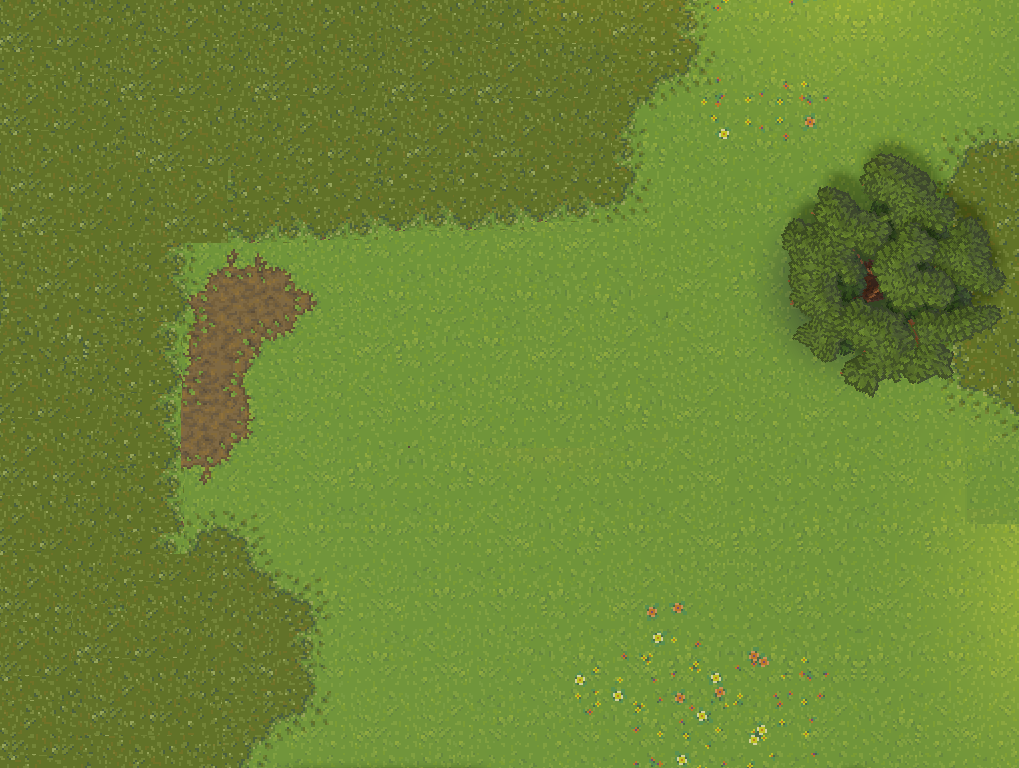
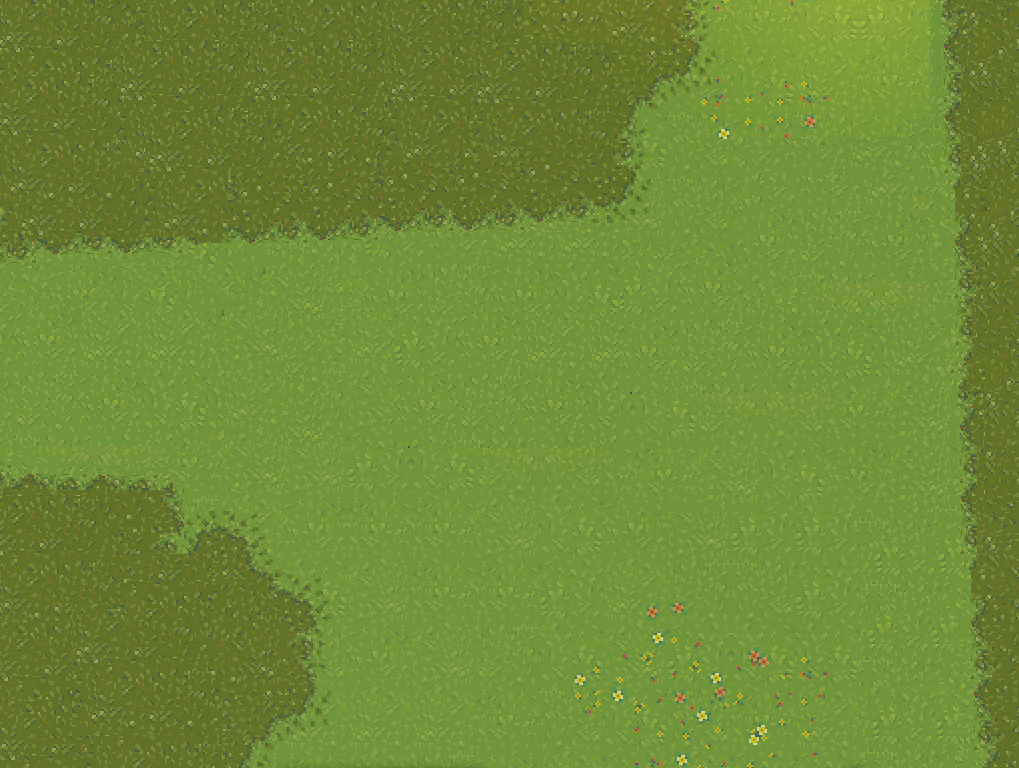
Add files via upload

Changed region(s): [[0.7301, 0.0, 1.0, 1.0], [0.0, 0.3125, 0.3346, 0.6562], [0.6693, 0.5312, 0.6997, 0.5625]]

diff --git a/main_new.py b/main_new.py
@@ -110,6 +110,7 @@ background1 = pygame.transform.scale(pygame.image.load("ground.png"),(window_wid
 background2 = pygame.transform.scale(pygame.image.load("ground2.png"),(window_width,window_height))
 background3 = pygame.transform.scale(pygame.image.load("ground3.png"),(window_width,window_height))
 background4 = pygame.transform.scale(pygame.image.load("ground_magaz.png"),(window_width,window_height))
+background5 = pygame.transform.scale(pygame.image.load("ground4.png"),(window_width,window_height))
 house = pygame.transform.scale(pygame.image.load("house.jpg"),(600,400))
 house_in = pygame.transform.scale(pygame.image.load("house_in.jpg"),(window_width,window_height))
 hearts = pygame.transform.scale(pygame.image.load("heart.png"),(25,25))
@@ -160,6 +161,7 @@ once_lock = 1
 hp_resiste = time.monotonic()
 time_for_dmg = time.monotonic()
 pre_attack_time = time.monotonic()
+time_fix = time.monotonic()
 hp_resister = 0
 coins = 0
 death = 0
@@ -191,7 +193,7 @@ while game:
                 if Locationy == 1:
                     Locationy = "magaz"
 
-            if key[pygame.K_e] and main_character.rect.x > 100 and main_character.rect.x < 150 and main_character.rect.y > 340 and main_character.rect.y < 380:
+            if key[pygame.K_e] and main_character.rect.x > 100 and main_character.rect.x < 150 and main_character.rect.y > 340 and main_character.rect.y < 440:
                 if Locationy == "magaz":
                     Locationy = 1
             if key[pygame.K_f]:
@@ -231,11 +233,14 @@ while game:
                 window.blit(hotbar_img,(100,100))
                 window.blit(wand_img,(100,100))
                 window.blit(coin,(100,30))
+                window.blit(mfont.render("20",True,(0,0,0)),(130,30))
                 window.blit(hotbar_img,(200,100))
                 window.blit(heart_img,(200,100))
+                window.blit(mfont.render("15",True,(0,0,0)),(230,30))
                 window.blit(coin,(200,30))
                 window.blit(hotbar_img,(300,100))
                 window.blit(coin,(300,30))
+                window.blit(mfont.render("10",True,(0,0,0)),(330,30))
             once_lock = 0
         if Locationy != 1 and Locationy != "magaz":
             once_lock = 1
@@ -244,7 +249,7 @@ while game:
         window.blit(background3,(0,0))
 
     if Location >= 3:
-        window.blit(background3,(0,0))
+        window.blit(background5,(0,0))
 
     # ворог на локації
     if Location == 0:
@@ -322,18 +327,23 @@ while game:
             main_character.hp = main_heart
             Fight = False
         Loc = Location
-        if attack_style == 0:
-            if time.monotonic() - time_for_Attack >= 2.5:
-                pre_attack_time = time.monotonic()+2
-                enemy.image = pygame.transform.scale(pygame.image.load(enemy.image_list[2]),(enemy.w,enemy.h))
-                if main_character.rect.x - enemy.rect.x < enemy.w+15 and main_character.rect.x - enemy.rect.x > -enemy.w-15:
-                    if main_character.rect.y - enemy.rect.y < enemy.h+15 and main_character.rect.y - enemy.rect.y > -enemy.h-15:
-                        main_character.hp -= enemy.damage
-                    pre_attack_time = time.monotonic()
+        
+        if time.monotonic() - time_for_Attack >= 2:
+            pre_attack_time = time.monotonic()+2
+        
+            enemy.image = pygame.transform.scale(pygame.image.load(enemy.image_list[2]),(enemy.w,enemy.h))
+            if main_character.rect.x - enemy.rect.x < enemy.w+15 and main_character.rect.x - enemy.rect.x > -enemy.w-15:
+                if main_character.rect.y - enemy.rect.y < enemy.h+15 and main_character.rect.y - enemy.rect.y > -enemy.h-15:
+                    main_character.hp -= enemy.damage
                     enemy.image = pygame.transform.scale(pygame.image.load(enemy.image_list[0]),(enemy.w,enemy.h))
+                    pre_attack_time = time.monotonic()
                     time_for_Attack = time.monotonic()
-            if time.monotonic() - pre_attack_time >= 1:
-                enemy.image = pygame.transform.scale(pygame.image.load(enemy.image_list[5]),(enemy.w,enemy.h))
+            if time.monotonic() - time_for_Attack >= 2.3:
+                enemy.image = pygame.transform.scale(pygame.image.load(enemy.image_list[0]),(enemy.w,enemy.h))
+                pre_attack_time = time.monotonic()
+                time_for_Attack = time.monotonic()
+        if time.monotonic() - pre_attack_time >= 0.8:
+            enemy.image = pygame.transform.scale(pygame.image.load(enemy.image_list[5]),(enemy.w,enemy.h))
 
         if dmgp == 1:
             if time.monotonic() - time_for_dmg >= 2:
